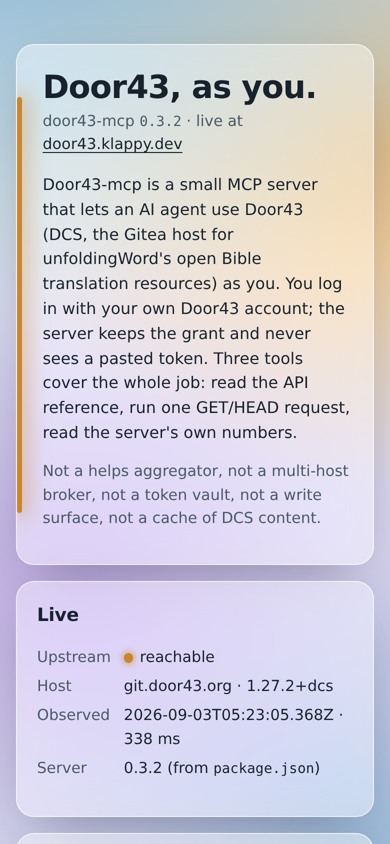
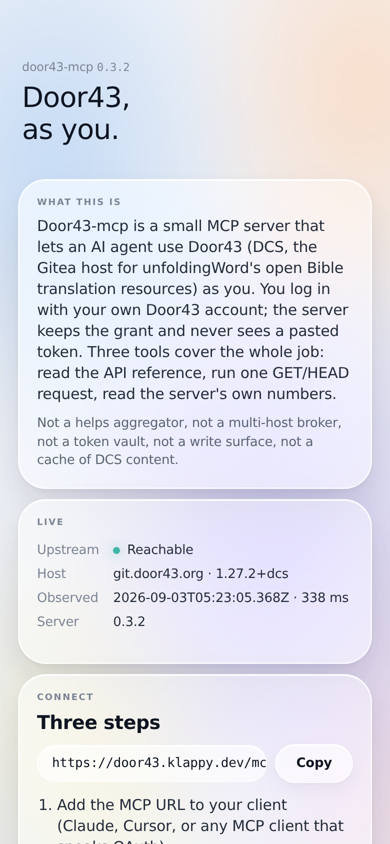
home: restyle on the captain-supplied Generative Glass design system
Tokens ported verbatim from the system's tokens/*.css: glass fill ladder (.46/.62 light,
.09/.14 dark), blur-medium 24px + saturate(160%), .5px white hairlines, inner top light,
refraction sheen, aurora field (light and theme-dark), three-layer shadows, radius scale
(28 cards, pill controls), SF Pro type scale via the platform stack (no font binaries:
Apple licence, and the page ships no assets). Copy rules kept and tested: sentence case,
9px/0.14em overlines, no emoji, no exclamation, no em-dashes (DESCRIPTIONS exempt: verbatim
by law). Accent budget: teal live glow, red down. Page 14.8 KB. 62/62.

diff --git a/src/home.ts b/src/home.ts
@@ -3,11 +3,12 @@
  * 2026-09-03-door43-mcp-homepage-readme). Nothing on the page is typed here that a source
  * already knows: version ← package.json, tool lines ← DESCRIPTIONS, journeys ← RECIPES,
  * copy ← docs/SURFACE.md, live status ← /health fetched in the browser (with observed_at).
- * Glass-morphism per the captain's ruling: frosted translucent panels (backdrop-filter blur),
- * thin light borders, soft depth, over a layered gradient; light and dark; phone first.
+ * Design: the captain-supplied Generative Glass design system (2026-09-03) — tokens ported
+ * verbatim (glass fill ladder, blur, hairlines, inner top light, refraction sheen, aurora field,
+ * three-layer shadows, radius scale, SF Pro type scale, theme-dark aliases). Copy rules kept:
+ * sentence case, overlines at 9px/0.14em, no emoji, no exclamation, no em-dashes. Accent budget:
+ * teal for the live glow, red for down; nothing else coloured.
  * One inline <style>, one inline <script>; no external font, script, or image. ≤ 24 KB.
- * The one accent (amber, the light under the door) is spent on the hero's edge, the live dot,
- * and the copy button — nowhere else.
  */
 import { surface, REPO_URL } from "./surface";
 
@@ -17,47 +18,83 @@ const esc = (s: string) => s.replace(/[&<>"]/g, (c) => ({ "&": "&amp;", "<": "&l
 const md = (s: string) => esc(s).replace(/`([^`]+)`/g, "<code>$1</code>");
 
 const CSS = `
-:root{color-scheme:light dark;--ink:#17222D;--ink-2:#4A5966;--line:rgba(255,255,255,.65);--glass:rgba(255,255,255,.46);--glass-2:rgba(255,255,255,.3);--amber:#C9862B;--amber-ink:#2B1B05;--base:#E3EAF0;--b1:#8FB9D3;--b2:#EDBD7A;--b3:#BBA8DF;--shadow:0 18px 50px -24px rgba(23,34,45,.45);--code:rgba(23,34,45,.07)}
-@media(prefers-color-scheme:dark){:root{--ink:#E9EFF4;--ink-2:#A9B6C2;--line:rgba(255,255,255,.14);--glass:rgba(255,255,255,.075);--glass-2:rgba(255,255,255,.045);--amber:#F0B85A;--amber-ink:#1A1204;--base:#0D1520;--b1:#1F5A72;--b2:#8A5720;--b3:#463676;--shadow:0 22px 60px -26px rgba(0,0,0,.8);--code:rgba(255,255,255,.08)}}
+/* Generative Glass design system (captain-supplied, 2026-09-03): tokens ported verbatim from
+   tokens/{colors,glass,elevation,radius,typography,spacing,motion,theme-dark}.css. Fonts: the
+   system ships SF Pro binaries under Apple's licence; this page uses the same faces via the
+   platform stack (-apple-system) and ships no font file. Dark = the system's theme-dark aliases,
+   keyed on prefers-color-scheme since the page has no toggle. */
+:root{color-scheme:light dark;
+--ink-900:#0E1420;--ink-700:#242C3A;--ink-500:#5A6472;--ink-400:#7C8595;--ink-300:#9AA2B0;
+--paper-000:#FFFFFF;--paper-100:#EEF0F5;--night-900:#0B0D10;--on-night-500:#A7ADB6;--on-night-400:#7E858F;
+--accent-blue:#1F4FE0;--accent-red:#D0202E;--accent-teal:#3FB6A8;
+--text-title:var(--ink-900);--text-body:var(--ink-700);--text-muted:var(--ink-500);--text-dim:var(--ink-400);--text-faint:var(--ink-300);
+--surface-app:var(--paper-100);
+--glass-fill-2:rgba(255,255,255,.46);--glass-fill-3:rgba(255,255,255,.62);
+--blur-soft:16px;--blur-medium:24px;--sat-glass:saturate(160%);
+--border-glass:.5px solid rgba(255,255,255,.7);--border-hairline:.5px solid rgba(20,28,45,.06);
+--refraction:linear-gradient(135deg,rgba(255,255,255,.55) 0%,rgba(255,255,255,0) 38%,rgba(255,255,255,0) 62%,rgba(255,255,255,.22) 100%);
+--aurora-field:radial-gradient(52% 34% at 22% 30%,rgba(188,214,244,.85) 0%,rgba(188,214,244,0) 70%),radial-gradient(46% 30% at 78% 24%,rgba(251,216,189,.80) 0%,rgba(251,216,189,0) 72%),radial-gradient(58% 38% at 62% 62%,rgba(201,195,240,.85) 0%,rgba(201,195,240,0) 72%),radial-gradient(42% 28% at 30% 78%,rgba(246,239,198,.70) 0%,rgba(246,239,198,0) 74%),radial-gradient(50% 36% at 88% 82%,rgba(242,207,219,.65) 0%,rgba(242,207,219,0) 74%),linear-gradient(180deg,#F4F6FA 0%,#E7EBF3 100%);
+--shadow-rest:0 1px 2px rgba(20,28,45,.04),0 6px 18px rgba(20,28,45,.05);
+--shadow-card:0 2px 6px rgba(20,28,45,.05),0 14px 34px rgba(20,28,45,.08),0 40px 80px rgba(20,28,45,.06);
+--glow-focus:0 0 0 1px rgba(255,255,255,.7),0 0 24px rgba(188,214,244,.55);
+--inner-top:inset 0 1px 0 rgba(255,255,255,.75);--inner-edge:inset 0 0 0 .5px rgba(255,255,255,.55);
+--r-sm:14px;--r-lg:22px;--r-xl:28px;--r-pill:999px;
+--gutter-screen:18px;--gutter-card:18px;--gap-stack:10px;--gap-inline:8px;
+--font-core:"SF Pro Display","SF Pro Text",-apple-system,BlinkMacSystemFont,system-ui,sans-serif;--font-mono:ui-monospace,"SF Mono",Menlo,monospace;
+--fs-hero:28px;--fs-title:19px;--fs-body:15px;--fs-label:13px;--fs-caption:12px;--fs-micro:10px;--fs-overline:9px;
+--ease-liquid:cubic-bezier(.22,1,.36,1);--dur-fast:240ms;--press-scale:.972}
+@media(prefers-color-scheme:dark){:root{
+--text-title:#FFFFFF;--text-body:#E7EAEF;--text-muted:var(--on-night-500);--text-dim:var(--on-night-400);--text-faint:#666D77;
+--surface-app:var(--night-900);
+--glass-fill-2:rgba(255,255,255,.09);--glass-fill-3:rgba(255,255,255,.14);
+--border-glass:.5px solid rgba(255,255,255,.28);--border-hairline:.5px solid rgba(255,255,255,.10);
+--inner-top:inset 0 1px 0 rgba(255,255,255,.26);--inner-edge:inset 0 0 0 .5px rgba(255,255,255,.14);
+--refraction:linear-gradient(135deg,rgba(255,255,255,.20) 0%,rgba(255,255,255,0) 38%,rgba(255,255,255,0) 62%,rgba(255,255,255,.10) 100%);
+--shadow-rest:0 1px 2px rgba(0,0,0,.34),0 6px 18px rgba(0,0,0,.30);
+--shadow-card:0 2px 6px rgba(0,0,0,.36),0 14px 34px rgba(0,0,0,.40),0 40px 80px rgba(0,0,0,.32);
+--glow-focus:0 0 0 1px rgba(255,255,255,.22),0 0 24px rgba(63,182,168,.30);
+--accent-blue:#5C86F2;
+--aurora-field:radial-gradient(52% 34% at 22% 30%,rgba(102,138,152,.55) 0%,rgba(102,138,152,0) 70%),radial-gradient(46% 30% at 78% 24%,rgba(92,134,242,.46) 0%,rgba(92,134,242,0) 72%),radial-gradient(58% 38% at 62% 62%,rgba(140,110,215,.52) 0%,rgba(140,110,215,0) 72%),radial-gradient(42% 28% at 30% 78%,rgba(226,70,84,.28) 0%,rgba(226,70,84,0) 74%),radial-gradient(50% 36% at 88% 82%,rgba(102,138,152,.32) 0%,rgba(102,138,152,0) 74%),linear-gradient(180deg,#0B0D10 0%,#0A1114 100%)}}
 *{box-sizing:border-box}
-html{background:var(--base)}
-body{margin:0;min-height:100vh;color:var(--ink);font:16px/1.55 system-ui,-apple-system,"Segoe UI",Roboto,sans-serif;-webkit-font-smoothing:antialiased;background:
- radial-gradient(60rem 38rem at 6% -8%,var(--b1) 0%,transparent 64%),
- radial-gradient(42rem 34rem at 100% 18%,var(--b2) 0%,transparent 62%),
- radial-gradient(52rem 42rem at 20% 70%,var(--b3) 0%,transparent 62%),
- radial-gradient(40rem 30rem at 90% 100%,var(--b1) 0%,transparent 62%),
- var(--base);background-attachment:fixed}
-main{max-width:40rem;margin:0 auto;padding:1.25rem 1rem 4rem}
-.g{background:var(--glass);border:1px solid var(--line);border-radius:18px;box-shadow:var(--shadow);backdrop-filter:blur(18px) saturate(140%);-webkit-backdrop-filter:blur(18px) saturate(140%);padding:1.25rem 1.25rem;margin:1rem 0}
-.hero{position:relative;padding:1.6rem 1.35rem 1.5rem 1.6rem;margin-top:1.5rem;overflow:hidden}
-.hero:before{content:"";position:absolute;left:0;top:10%;bottom:10%;width:5px;border-radius:5px;background:var(--amber);box-shadow:0 0 22px 4px color-mix(in srgb,var(--amber) 55%,transparent)}
-h1{margin:0 0 .35rem;font-size:clamp(2rem,7vw,2.75rem);line-height:1.05;letter-spacing:-.02em;font-weight:800}
-.v{margin:0 0 1rem;color:var(--ink-2);font-size:.95rem}
-p{margin:.6rem 0}
-.not{color:var(--ink-2);font-size:.95rem;margin-top:.9rem}
-h2{font-size:1.15rem;margin:0 0 .6rem;letter-spacing:-.01em}
-.st{display:grid;grid-template-columns:auto 1fr;gap:.35rem .8rem;align-items:baseline;font-size:.95rem}
-.st dt{color:var(--ink-2)}.st dd{margin:0}
-.dot{display:inline-block;width:.6em;height:.6em;border-radius:50%;background:var(--ink-2);margin-right:.45em;vertical-align:middle}
-.dot.up{background:var(--amber);box-shadow:0 0 8px var(--amber)}
-.dot.down{background:#C0392B}
-.url{display:flex;gap:.5rem;align-items:stretch;margin:.4rem 0 1rem}
-.url code{flex:1;min-width:0;overflow-x:auto;white-space:nowrap;padding:.7rem .8rem;border-radius:12px;background:var(--code);border:1px solid var(--line);font-size:.95rem}
-button{font:inherit;font-weight:600;padding:.55rem .95rem;border-radius:12px;border:1px solid var(--line);background:var(--amber);color:var(--amber-ink);cursor:pointer;flex:none}
-button:focus-visible,a:focus-visible{outline:3px solid var(--amber);outline-offset:2px}
-ol{margin:0;padding-left:1.35rem}ol li{margin:.35rem 0}
-code,kbd{font-family:ui-monospace,SFMono-Regular,Menlo,Consolas,monospace;font-size:.92em}
-.tools{display:grid;gap:.75rem}
-.tool{display:grid;grid-template-columns:6.5rem 1fr;gap:.6rem;padding:.7rem 0;border-top:1px solid var(--line)}
-.tool:first-child{border-top:0;padding-top:0}
-.tool b{font-family:ui-monospace,SFMono-Regular,Menlo,Consolas,monospace;font-weight:600}
-.j{padding:.65rem 0;border-top:1px solid var(--line)}.j:first-child{border-top:0;padding-top:0}
-.j p{margin:.2rem 0}.j code{display:block;overflow-x:auto;white-space:nowrap;padding:.5rem .65rem;border-radius:10px;background:var(--code);margin-top:.35rem}
-.foot{font-size:.9rem;color:var(--ink-2)}.foot a{color:inherit}
-.links{display:flex;flex-wrap:wrap;gap:.4rem .9rem;margin:.4rem 0 .8rem}
-a{color:var(--ink);text-decoration-thickness:1px;text-underline-offset:3px}
-@media(max-width:26rem){.tool{grid-template-columns:1fr;gap:.15rem}}
-@media(prefers-reduced-motion:no-preference){button{transition:transform .12s}button:active{transform:scale(.97)}}
+html{background:var(--surface-app)}
+body{margin:0;min-height:100vh;color:var(--text-body);font:400 var(--fs-body)/1.4 var(--font-core);letter-spacing:-.01em;-webkit-font-smoothing:antialiased;position:relative;overflow-x:hidden}
+.aurora{position:fixed;inset:-18%;z-index:-1;background:var(--aurora-field);filter:blur(28px);animation:gg-drift 22s var(--ease-liquid) infinite}
+@keyframes gg-drift{0%{transform:translate3d(0,0,0) scale(1)}33%{transform:translate3d(3%,-2%,0) scale(1.06)}66%{transform:translate3d(-2%,3%,0) scale(1.03)}100%{transform:translate3d(0,0,0) scale(1)}}
+@media(prefers-reduced-motion:reduce){.aurora{animation:none}}
+main{max-width:420px;margin:0 auto;padding:52px var(--gutter-screen) 40px;display:flex;flex-direction:column;gap:var(--gap-stack)}
+.hd{padding:8px 4px 22px}
+.date{font:400 var(--fs-caption)/1.3 var(--font-core);color:var(--text-dim);margin:0 0 6px}
+h1{margin:0;font:500 var(--fs-hero)/1.16 var(--font-core);letter-spacing:-.02em;color:var(--text-title)}
+.g{position:relative;background:var(--glass-fill-2);backdrop-filter:blur(var(--blur-medium)) var(--sat-glass);-webkit-backdrop-filter:blur(var(--blur-medium)) var(--sat-glass);border:var(--border-glass);border-radius:var(--r-xl);box-shadow:var(--shadow-card),var(--inner-top),var(--inner-edge);padding:var(--gutter-card);color:var(--text-body)}
+.g:before{content:"";position:absolute;inset:0;border-radius:inherit;background:var(--refraction);opacity:.6;pointer-events:none}
+.g>*{position:relative}
+.ov{display:block;font:600 var(--fs-overline)/1.2 var(--font-core);letter-spacing:.14em;text-transform:uppercase;color:var(--text-dim);margin:0 0 8px}
+h2{margin:0 0 8px;font:600 var(--fs-title)/1.24 var(--font-core);letter-spacing:-.015em;color:var(--text-title)}
+p{margin:0}
+.body{font-size:var(--fs-body)}
+.muted{color:var(--text-muted);font-size:var(--fs-label);margin-top:10px}
+.st{display:grid;grid-template-columns:auto 1fr;gap:6px 14px;font-size:var(--fs-label);align-items:baseline}
+.st dt{color:var(--text-dim);font-weight:500}.st dd{margin:0;color:var(--text-body)}
+.dot{display:inline-block;width:7px;height:7px;border-radius:50%;background:var(--text-faint);margin-right:7px;vertical-align:middle}
+.dot.up{background:var(--accent-teal);box-shadow:0 0 12px rgba(63,182,168,.6)}
+.dot.down{background:var(--accent-red)}
+.url{display:flex;gap:var(--gap-inline);align-items:center;margin:2px 0 12px}
+.url code{flex:1;min-width:0;overflow-x:auto;white-space:nowrap;padding:11px 14px;border-radius:var(--r-pill);background:var(--glass-fill-3);border:var(--border-glass);box-shadow:var(--inner-top);font:500 var(--fs-label)/1 var(--font-mono);color:var(--text-title)}
+.url code::-webkit-scrollbar{display:none}
+button{display:inline-flex;align-items:center;justify-content:center;padding:12px 20px;border-radius:var(--r-pill);border:var(--border-glass);background:var(--glass-fill-3);color:var(--text-title);box-shadow:var(--shadow-rest),var(--inner-top);font:600 var(--fs-label)/1 var(--font-core);letter-spacing:-.01em;cursor:pointer;flex:none;transition:opacity var(--dur-fast) var(--ease-liquid),transform var(--dur-fast) var(--ease-liquid),box-shadow var(--dur-fast) var(--ease-liquid)}
+button:hover{transform:translateY(-1px);filter:brightness(1.04)}button:active{transform:scale(var(--press-scale))}
+button:focus-visible,a:focus-visible{outline:none;box-shadow:var(--glow-focus)}
+ol{margin:0;padding-left:20px;font-size:var(--fs-body)}ol li{margin:6px 0}
+code,kbd{font-family:var(--font-mono);font-size:.93em}
+.chip{display:inline-flex;align-items:center;padding:5px 11px;border-radius:var(--r-pill);background:var(--glass-fill-3);border:var(--border-glass);color:var(--text-title);font:500 var(--fs-caption)/1.1 var(--font-mono);letter-spacing:.01em;margin-bottom:6px}
+.row{padding:12px 0;border-top:var(--border-hairline)}.row:first-of-type{border-top:0;padding-top:4px}.row:last-of-type{padding-bottom:0}
+.row p{font-size:var(--fs-body)}
+.call{display:block;overflow-x:auto;white-space:nowrap;margin-top:8px;padding:9px 12px;border-radius:var(--r-sm);background:var(--glass-fill-3);border:var(--border-glass);box-shadow:var(--inner-top);font:500 var(--fs-caption)/1.2 var(--font-mono);color:var(--text-title)}
+.call::-webkit-scrollbar{display:none}
+.foot{font-size:var(--fs-label);color:var(--text-muted)}
+.links{display:flex;flex-wrap:wrap;gap:var(--gap-inline);margin:0 0 12px}
+.links a{display:inline-flex;padding:8px 14px;border-radius:var(--r-pill);background:var(--glass-fill-3);border:var(--border-glass);box-shadow:var(--inner-top);color:var(--text-title);font:600 var(--fs-caption)/1 var(--font-core);text-decoration:none}
+a{color:var(--text-title);text-decoration-thickness:.5px;text-underline-offset:3px}
 `;
 
 const JS = `
@@ -65,15 +102,15 @@ const JS = `
 var d=document,st=d.getElementById('st'),dot=d.getElementById('dot'),up=d.getElementById('up'),at=d.getElementById('at');
 fetch('/health',{cache:'no-store'}).then(function(r){return r.json()}).then(function(h){
  var ok=h.status===200&&h.upstream&&h.upstream.version;
- dot.className='dot '+(ok?'up':'down');st.textContent=ok?'reachable':'unreachable ('+h.status+')';
+ dot.className='dot '+(ok?'up':'down');st.textContent=ok?'Reachable':'Unreachable, '+h.status;
  up.textContent=(h.upstream&&h.upstream.host||'')+(h.upstream&&h.upstream.version?' · '+h.upstream.version:'');
  at.textContent=h.observed_at+(h.upstream_ms!=null?' · '+h.upstream_ms+' ms':'');
-}).catch(function(){dot.className='dot down';st.textContent='/health did not answer';at.textContent=new Date().toISOString()});
+}).catch(function(){dot.className='dot down';st.textContent='No answer from /health';at.textContent=new Date().toISOString()});
 var b=d.getElementById('cp'),u=d.getElementById('url');
 b.addEventListener('click',function(){
  var t=u.textContent,done=function(){b.textContent='Copied';setTimeout(function(){b.textContent='Copy'},1600)};
  if(navigator.clipboard)navigator.clipboard.writeText(t).then(done,function(){sel()});else sel();
- function sel(){var r=d.createRange();r.selectNodeContents(u);var s=getSelection();s.removeAllRanges();s.addRange(r);b.textContent='Selected — press copy'}
+ function sel(){var r=d.createRange();r.selectNodeContents(u);var s=getSelection();s.removeAllRanges();s.addRange(r);b.textContent='Selected, press copy'}
 });
 })();
 `;
@@ -81,12 +118,13 @@ b.addEventListener('click',function(){
 export function renderHome(o: { host: string; serverUrl: string }): string {
   const s = surface();
   const mcp = `${o.serverUrl}/mcp`;
-  return `<!doctype html><html lang="en"><head><meta charset="utf-8"><meta name="viewport" content="width=device-width,initial-scale=1"><meta name="color-scheme" content="light dark"><title>${s.name} — Door43 as you</title><meta name="description" content="${esc(s.what.slice(0, 150))}"><style>${CSS}</style></head><body><main>
-<section class="g hero"><h1>Door43, as you.</h1><p class="v">${s.name} <code>${esc(s.version)}</code> · live at <a href="${o.serverUrl}/">${esc(o.serverUrl.replace(/^https?:\/\//, ""))}</a></p><p>${md(s.what)}</p><p class="not">${md(s.isNot)}</p></section>
-<section class="g"><h2>Live</h2><dl class="st"><dt>Upstream</dt><dd><span class="dot" id="dot"></span><span id="st">checking…</span></dd><dt>Host</dt><dd id="up">${esc(o.host)}</dd><dt>Observed</dt><dd id="at">—</dd><dt>Server</dt><dd>${esc(s.version)} (from <code>package.json</code>)</dd></dl></section>
-<section class="g"><h2>Connect in three steps</h2><div class="url"><code id="url">${esc(mcp)}</code><button id="cp" type="button" aria-label="Copy the MCP URL">Copy</button></div><ol>${s.connect.map((c) => `<li>${md(c)}</li>`).join("")}</ol></section>
-<section class="g"><h2>The three tools</h2><div class="tools">${s.tools.map((t) => `<div class="tool"><b>${esc(t.name)}</b><span>${esc(t.line)}</span></div>`).join("")}</div></section>
-<section class="g"><h2>Journeys</h2>${s.journeys.map((j) => `<div class="j"><p><b>${esc(j.recipe)}</b> — ${md(j.about)}</p><code>${esc(j.call)}</code></div>`).join("")}<p class="not">Each one is <code>docs({recipe:"…"})</code>; the server fills the call for you.</p></section>
-<section class="g foot"><div class="links"><a href="${REPO_URL}">Repo</a><a href="${REPO_URL}/blob/main/AGENTS.md">AGENTS.md</a><a href="${REPO_URL}/tree/main/docs">docs/</a><a href="${REPO_URL}/blob/main/docs/DEPLOY.md">Deploy your own</a><a href="/health">/health</a></div>Governed by <code>${esc(s.law)}</code>. Reads only in v1; you can revoke access any time by deleting the app on Door43.</section>
+  return `<!doctype html><html lang="en"><head><meta charset="utf-8"><meta name="viewport" content="width=device-width,initial-scale=1,viewport-fit=cover"><meta name="color-scheme" content="light dark"><title>${s.name}</title><meta name="description" content="${esc(s.what.slice(0, 150))}"><style>${CSS}</style></head><body><div class="aurora" aria-hidden="true"></div><main>
+<header class="hd"><p class="date">${s.name} <code>${esc(s.version)}</code></p><h1>Door43,<br>as you.</h1></header>
+<section class="g"><span class="ov">What this is</span><p class="body">${md(s.what)}</p><p class="muted">${md(s.isNot)}</p></section>
+<section class="g"><span class="ov">Live</span><dl class="st"><dt>Upstream</dt><dd><span class="dot" id="dot"></span><span id="st">Checking</span></dd><dt>Host</dt><dd id="up">${esc(o.host)}</dd><dt>Observed</dt><dd id="at">Waiting</dd><dt>Server</dt><dd>${esc(s.version)}</dd></dl></section>
+<section class="g"><span class="ov">Connect</span><h2>Three steps</h2><div class="url"><code id="url">${esc(mcp)}</code><button id="cp" type="button" aria-label="Copy the MCP URL">Copy</button></div><ol>${s.connect.map((c) => `<li>${md(c)}</li>`).join("")}</ol></section>
+<section class="g"><span class="ov">Tools</span><h2>Three, no more</h2>${s.tools.map((t) => `<div class="row"><span class="chip">${esc(t.name)}</span><p>${esc(t.line)}</p></div>`).join("")}</section>
+<section class="g"><span class="ov">Journeys</span><h2>Filled for you</h2>${s.journeys.map((j) => `<div class="row"><span class="chip">${esc(j.recipe)}</span><p>${md(j.about)}</p><code class="call">${esc(j.call)}</code></div>`).join("")}<p class="muted">Each one is <code>docs({recipe})</code>. The server fills the call.</p></section>
+<section class="g foot"><span class="ov">More</span><div class="links"><a href="${REPO_URL}">Repo</a><a href="${REPO_URL}/blob/main/AGENTS.md">Agents</a><a href="${REPO_URL}/tree/main/docs">Docs</a><a href="${REPO_URL}/blob/main/docs/DEPLOY.md">Deploy your own</a><a href="/health">Health</a></div>Governed by <code>${esc(s.law)}</code>. Reads only in v1. Revoke any time by deleting the app on Door43.</section>
 </main><script>${JS}</script></body></html>`;
 }

diff --git a/test/home.test.ts b/test/home.test.ts
@@ -21,7 +21,7 @@ describe("GET /", () => {
   });
   it("names the three tools with DESCRIPTIONS verbatim, and the MCP URL for this origin", async () => {
     const { body } = await home();
-    for (const [name, line] of Object.entries(DESCRIPTIONS)) { expect(body).toContain(`<b>${name}</b>`); expect(body).toContain(line.replace(/&/g, "&amp;")); }
+    for (const [name, line] of Object.entries(DESCRIPTIONS)) { expect(body).toContain(`<span class="chip">${name}</span>`); expect(body).toContain(line.replace(/&/g, "&amp;")); }
     expect(body).toContain(`${ORIGIN}/mcp`);
     expect(body).toContain(`id="cp"`); // the copy button
   });
@@ -29,6 +29,13 @@ describe("GET /", () => {
     const { body } = await home();
     expect(body).toContain(`<code>${pkg.version}</code>`);
     for (const v of body.match(/\b\d+\.\d+\.\d+\b/g) ?? []) expect(v).toBe(pkg.version);
+  });
+  it("copy rules of the design system: no emoji, no exclamation marks, no em-dashes in visible text", async () => {
+    const { body } = await home();
+    let text = body.replace(/<style>[\s\S]*?<\/style>/, "").replace(/<script>[\s\S]*?<\/script>/, "").replace(/<[^>]+>/g, " ");
+    for (const line of Object.values(DESCRIPTIONS)) text = text.replace(line.replace(/&/g, "&amp;"), ""); // DESCRIPTIONS are verbatim by law; the connector's copy is not the page's to edit
+    expect(text).not.toMatch(/[!—]/);
+    expect(text).not.toMatch(/[\u{1F300}-\u{1FAFF}]/u);
   });
   it("zero external assets: no external script/style/font/image, no @import, no inline event handlers", async () => {
     const { body } = await home();
@@ -46,11 +53,12 @@ describe("GET /", () => {
     expect(body).toContain(`observed_at`);
     expect(body).not.toContain("1.27.2"); // the upstream version is never typed into the page
   });
-  it("glass-morphism mechanism is present: backdrop blur, translucent panels, thin light borders, layered gradient, both schemes", async () => {
+  it("Generative Glass material is present: fill ladder, blur+saturate, inner top light, aurora field, dark aliases", async () => {
     const { body } = await home();
-    expect(body).toContain("backdrop-filter:blur(");
-    expect(body).toMatch(/--glass:rgba\(255,255,255,\.\d+\)/);
-    expect(body).toContain("radial-gradient(");
+    expect(body).toContain("backdrop-filter:blur(var(--blur-medium)) var(--sat-glass)");
+    expect(body).toMatch(/--glass-fill-2:rgba\(255,255,255,\.\d+\)/); // the design system's fill ladder
+    expect(body).toContain("--aurora-field:radial-gradient(");
+    expect(body).toContain("--inner-top:inset 0 1px 0"); // every glass surface carries the top light
     expect(body).toContain("prefers-color-scheme:dark");
   });
 });

diff --git a/docs/SURFACE.md b/docs/SURFACE.md
@@ -20,4 +20,4 @@ Not a helps aggregator, not a multi-host broker, not a token vault, not a write 
 
 1. Add the MCP URL to your client (Claude, Cursor, or any MCP client that speaks OAuth).
 2. Log in when the client sends you to git.door43.org and approve the app.
-3. Ask for `execute GET /user` — it returns your Door43 login. You are in.
+3. Ask for `execute GET /user`. It returns your Door43 login. You are in.

diff --git a/README.md b/README.md
@@ -19,7 +19,7 @@ https://door43.klappy.dev/mcp
 
 1. Add the MCP URL to your client (Claude, Cursor, or any MCP client that speaks OAuth).
 2. Log in when the client sends you to git.door43.org and approve the app.
-3. Ask for `execute GET /user` — it returns your Door43 login. You are in.
+3. Ask for `execute GET /user`. It returns your Door43 login. You are in.
 
 ## The three tools
 
